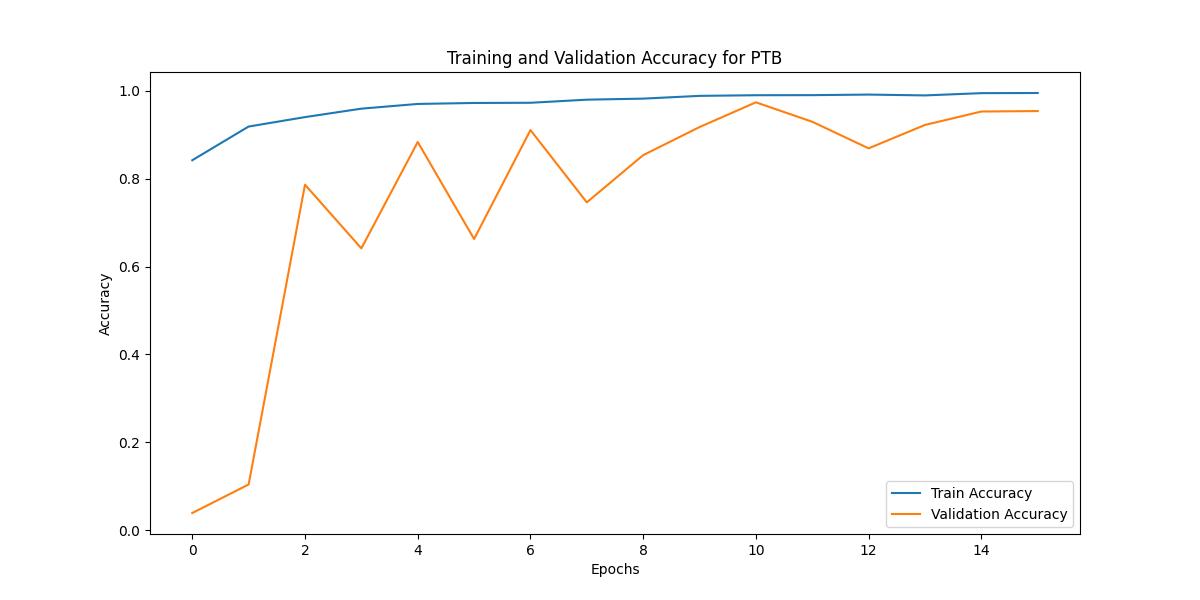
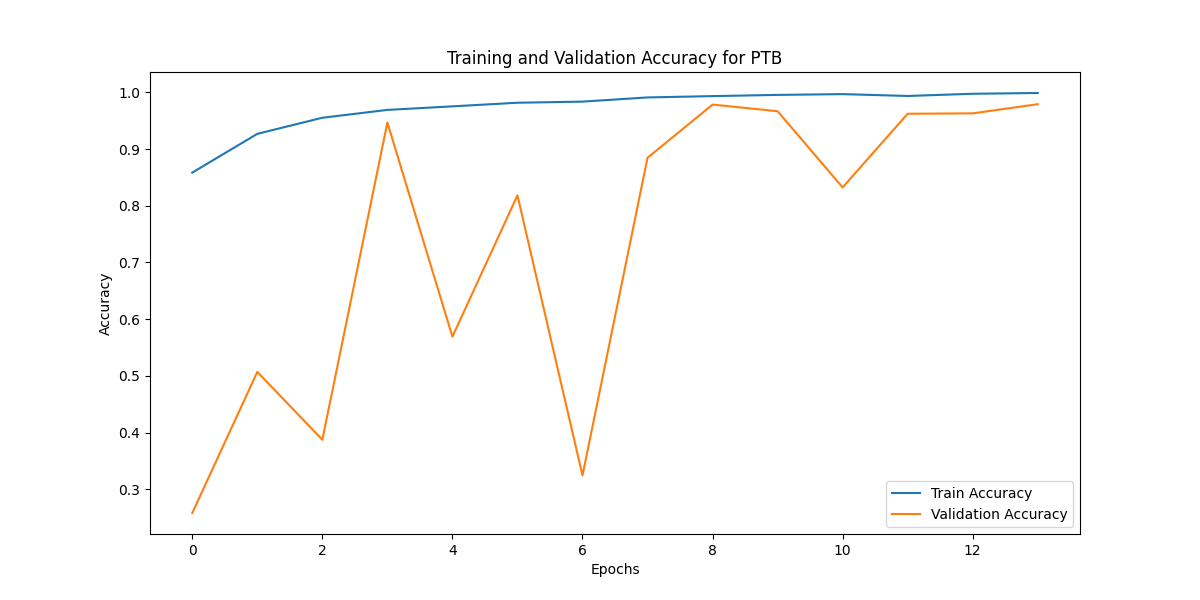
Final Fixed Added Noise Reduction.

diff --git a/backEnd/train.py b/backEnd/train.py
@@ -9,37 +9,66 @@ from keras.layers import Dense, Convolution1D, MaxPool1D, Flatten, Input, BatchN
 from keras.callbacks import EarlyStopping, ModelCheckpoint, ReduceLROnPlateau
 from keras.utils import to_categorical
 import seaborn as sns
+from scipy.signal import butter, filtfilt
+
+# Band-pass filter for noise reduction
+def bandpass_filter(signal, lowcut, highcut, fs=125, order=4):
+    """
+    Applies a band-pass filter to the signal to remove noise.
+    Keeps frequencies between `lowcut` and `highcut`.
+    """
+    nyquist = 0.5 * fs  # Nyquist frequency is half the sampling rate
+    low = lowcut / nyquist
+    high = highcut / nyquist
+    b, a = butter(order, [low, high], btype='band')  # Create filter coefficients
+    return filtfilt(b, a, signal, axis=0)  # Apply the filter
+
+# Preprocess data
+def preprocess_data(X, fs=125):
+    """
+    Preprocesses the input data by:
+    1. Applying band-pass filtering to remove noise.
+    2. Standardizing features for zero mean and unit variance.
+    3. Adding a channel dimension for CNN compatibility.
+    """
+    # Apply noise reduction
+    X_filtered = np.apply_along_axis(bandpass_filter, axis=1, arr=X, lowcut=0.5, highcut=50, fs=fs)
+    # Standardize the data
+    scaler = StandardScaler()
+    X_scaled = scaler.fit_transform(X_filtered)
+    return X_scaled[..., np.newaxis]  # Add channel dimension
 
 # Build CNN model
 def build_cnn(input_shape, num_classes):
+    """
+    Builds a 1D Convolutional Neural Network for ECG classification.
+    Consists of convolutional layers, max-pooling, batch normalization, and dense layers.
+    """
     inputs = Input(shape=input_shape, name="input_layer")
     x = Convolution1D(64, kernel_size=7, activation='relu', padding="same")(inputs)
-    x = BatchNormalization()(x)
-    x = MaxPool1D(pool_size=2, strides=2, padding="same")(x)
+    x = BatchNormalization()(x)  # Normalize intermediate feature maps
+    x = MaxPool1D(pool_size=2, strides=2, padding="same")(x)  # Downsample features
     x = Convolution1D(128, kernel_size=5, activation='relu', padding="same")(x)
     x = BatchNormalization()(x)
     x = MaxPool1D(pool_size=2, strides=2, padding="same")(x)
     x = Convolution1D(256, kernel_size=3, activation='relu', padding="same")(x)
     x = BatchNormalization()(x)
     x = MaxPool1D(pool_size=2, strides=2, padding="same")(x)
-    x = Flatten()(x)
+    x = Flatten()(x)  # Flatten feature maps into a single vector
     x = Dense(128, activation='relu')(x)
-    x = Dropout(0.4)(x)
+    x = Dropout(0.4)(x)  # Dropout for regularization
     x = Dense(64, activation='relu')(x)
     x = Dropout(0.3)(x)
-    outputs = Dense(num_classes, activation='softmax')(x)  # Multiclass or binary classification
+    outputs = Dense(num_classes, activation='softmax')(x)  # Output layer for classification
     model = Model(inputs, outputs)
-    model.compile(optimizer='adam', loss='categorical_crossentropy', metrics=['accuracy'])
+    model.compile(optimizer='adam', loss='categorical_crossentropy', metrics=['accuracy'])  # Compile the model
     return model
-
-# Preprocess data
-def preprocess_data(X):
-    scaler = StandardScaler()
-    X_scaled = scaler.fit_transform(X)
-    return X_scaled[..., np.newaxis]  # Add channel dimension
 
 # Plot training history
 def plot_training_history(history, dataset_name):
+    """
+    Plots the training and validation accuracy over epochs.
+    """
     plt.figure(figsize=(12, 6))
     plt.plot(history.history['accuracy'], label='Train Accuracy')
     plt.plot(history.history['val_accuracy'], label='Validation Accuracy')
@@ -51,6 +80,9 @@ def plot_training_history(history, dataset_name):
 
 # Plot confusion matrix
 def plot_confusion_matrix(cm, classes, dataset_name):
+    """
+    Plots the confusion matrix using seaborn heatmap.
+    """
     plt.figure(figsize=(10, 7))
     sns.heatmap(cm, annot=True, fmt='d', cmap='Blues', xticklabels=classes, yticklabels=classes)
     plt.xlabel('Predicted Labels')
@@ -60,9 +92,12 @@ def plot_confusion_matrix(cm, classes, dataset_name):
 
 # Evaluate the model
 def evaluate_model(model, X, y_true, class_names, dataset_name):
+    """
+    Evaluates the trained model and prints performance metrics including confusion matrix and accuracy.
+    """
     y_pred_probs = model.predict(X)
-    y_pred = np.argmax(y_pred_probs, axis=-1)
-    y_true = np.argmax(y_true, axis=-1)
+    y_pred = np.argmax(y_pred_probs, axis=-1)  # Predicted class labels
+    y_true = np.argmax(y_true, axis=-1)  # True class labels
 
     # Count normal and abnormal predictions
     normal_count = np.sum(y_pred == 0)
@@ -71,40 +106,48 @@ def evaluate_model(model, X, y_true, class_names, dataset_name):
     print(f"\nEvaluation Results for {dataset_name}:")
     print(f"Number of Normal ECG signals: {normal_count}")
     print(f"Number of Abnormal ECG signals: {abnormal_count}")
-    print(classification_report(y_true, y_pred, target_names=class_names))
+    print(classification_report(y_true, y_pred, target_names=class_names))  # Detailed classification report
 
-    cm = confusion_matrix(y_true, y_pred)
+    cm = confusion_matrix(y_true, y_pred)  # Confusion matrix
     plot_confusion_matrix(cm, class_names, dataset_name)
 
-    accuracy = np.mean(y_pred == y_true)
+    accuracy = np.mean(y_pred == y_true)  # Calculate accuracy
     print(f"Accuracy for {dataset_name}: {accuracy * 100:.2f}%")
 
 # Main script
 def train_and_evaluate():
+    """
+    Main function to train and evaluate the CNN model on two datasets: MIT-BIH and PTB.
+    """
     # MIT-BIH Dataset
-    mitbih_train = pd.read_csv('mitbih_train.csv', header=None)
-    mitbih_test = pd.read_csv('mitbih_test.csv', header=None)
+    mitbih_train = pd.read_csv('mitbih_train.csv', header=None)  # Load training data
+    mitbih_test = pd.read_csv('mitbih_test.csv', header=None)  # Load testing data
 
+    # Split data into features (X) and labels (y)
     X_train_mitbih = mitbih_train.iloc[:, :-1].values
     y_train_mitbih = mitbih_train.iloc[:, -1].values
     X_test_mitbih = mitbih_test.iloc[:, :-1].values
     y_test_mitbih = mitbih_test.iloc[:, -1].values
 
+    # Preprocess data
     X_train_mitbih = preprocess_data(X_train_mitbih)
     X_test_mitbih = preprocess_data(X_test_mitbih)
-    y_train_mitbih = to_categorical(y_train_mitbih, num_classes=5)
+    y_train_mitbih = to_categorical(y_train_mitbih, num_classes=5)  # One-hot encode labels
     y_test_mitbih = to_categorical(y_test_mitbih, num_classes=5)
 
+    # Compute class weights to handle imbalanced classes
     class_weights_mitbih = compute_class_weight('balanced', classes=np.unique(np.argmax(y_train_mitbih, axis=-1)), y=np.argmax(y_train_mitbih, axis=-1))
     class_weights_mitbih = dict(enumerate(class_weights_mitbih))
 
+    # Build and train the model
     mitbih_model = build_cnn(X_train_mitbih.shape[1:], num_classes=5)
     mitbih_callbacks = [
-        EarlyStopping(monitor='val_loss', patience=5),
-        ModelCheckpoint(filepath='best_model_mitbih.keras', save_best_only=True, monitor='val_loss'),
-        ReduceLROnPlateau(monitor='val_loss', factor=0.5, patience=3)
+        EarlyStopping(monitor='val_loss', patience=5),  # Stop early if no improvement
+        ModelCheckpoint(filepath='best_model_mitbih.keras', save_best_only=True, monitor='val_loss'),  # Save the best model
+        ReduceLROnPlateau(monitor='val_loss', factor=0.5, patience=3)  # Adjust learning rate on plateau
     ]
 
+    # Train the model
     history_mitbih = mitbih_model.fit(
         X_train_mitbih, y_train_mitbih,
         validation_data=(X_test_mitbih, y_test_mitbih),
@@ -113,23 +156,28 @@ def train_and_evaluate():
         callbacks=mitbih_callbacks
     )
 
+    # Plot and evaluate results
     plot_training_history(history_mitbih, "MIT-BIH")
     evaluate_model(mitbih_model, X_test_mitbih, y_test_mitbih, class_names=['Normal', 'S', 'V', 'F', 'Q'], dataset_name='MIT-BIH')
 
     # PTB Dataset
-    ptbdb_abnormal = pd.read_csv('ptbdb_abnormal.csv', header=None)
-    ptbdb_normal = pd.read_csv('ptbdb_normal.csv', header=None)
+    ptbdb_abnormal = pd.read_csv('ptbdb_abnormal.csv', header=None)  # Load abnormal data
+    ptbdb_normal = pd.read_csv('ptbdb_normal.csv', header=None)  # Load normal data
 
+    # Combine data and split into features and labels
     ptbdb_data = pd.concat([ptbdb_abnormal, ptbdb_normal])
     X_ptb = ptbdb_data.iloc[:, :-1].values
     y_ptb = ptbdb_data.iloc[:, -1].values
 
+    # Preprocess data
     X_ptb = preprocess_data(X_ptb)
     y_ptb = to_categorical(y_ptb, num_classes=2)
 
+    # Compute class weights for the PTB dataset
     class_weights_ptb = compute_class_weight('balanced', classes=np.unique(np.argmax(y_ptb, axis=-1)), y=np.argmax(y_ptb, axis=-1))
     class_weights_ptb = dict(enumerate(class_weights_ptb))
 
+    # Build and train the PTB model
     ptb_model = build_cnn(X_ptb.shape[1:], num_classes=2)
     ptb_callbacks = [
         EarlyStopping(monitor='val_loss', patience=5),
@@ -137,6 +185,7 @@ def train_and_evaluate():
         ReduceLROnPlateau(monitor='val_loss', factor=0.5, patience=3)
     ]
 
+    # Train the model
     history_ptb = ptb_model.fit(
         X_ptb, y_ptb,
         validation_split=0.2,
@@ -145,6 +194,7 @@ def train_and_evaluate():
         callbacks=ptb_callbacks
     )
 
+    # Plot and evaluate results
     plot_training_history(history_ptb, "PTB")
     evaluate_model(ptb_model, X_ptb, y_ptb, class_names=['Normal', 'Abnormal'], dataset_name='PTB')
 
